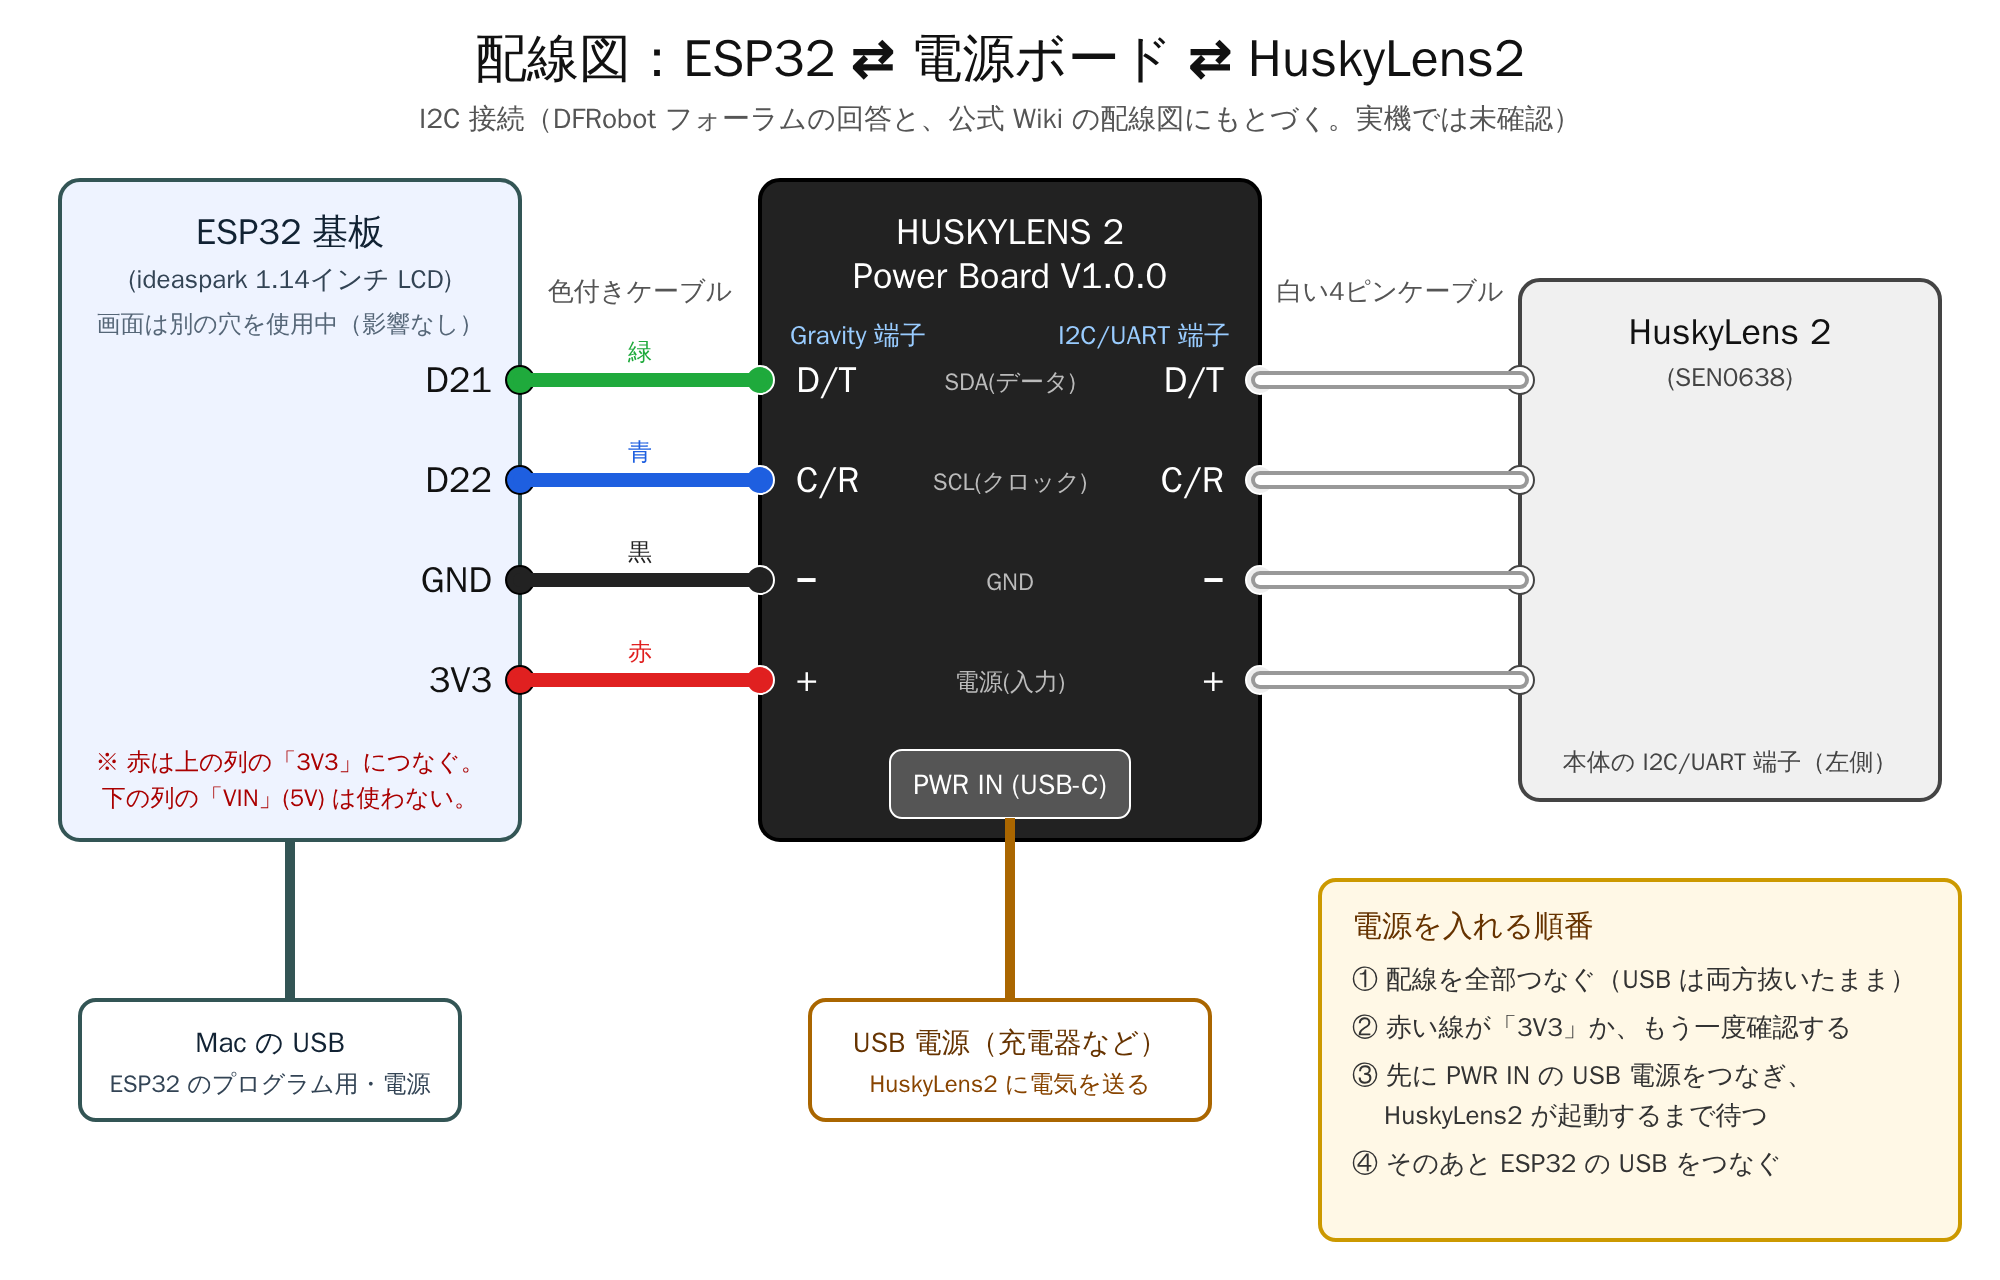
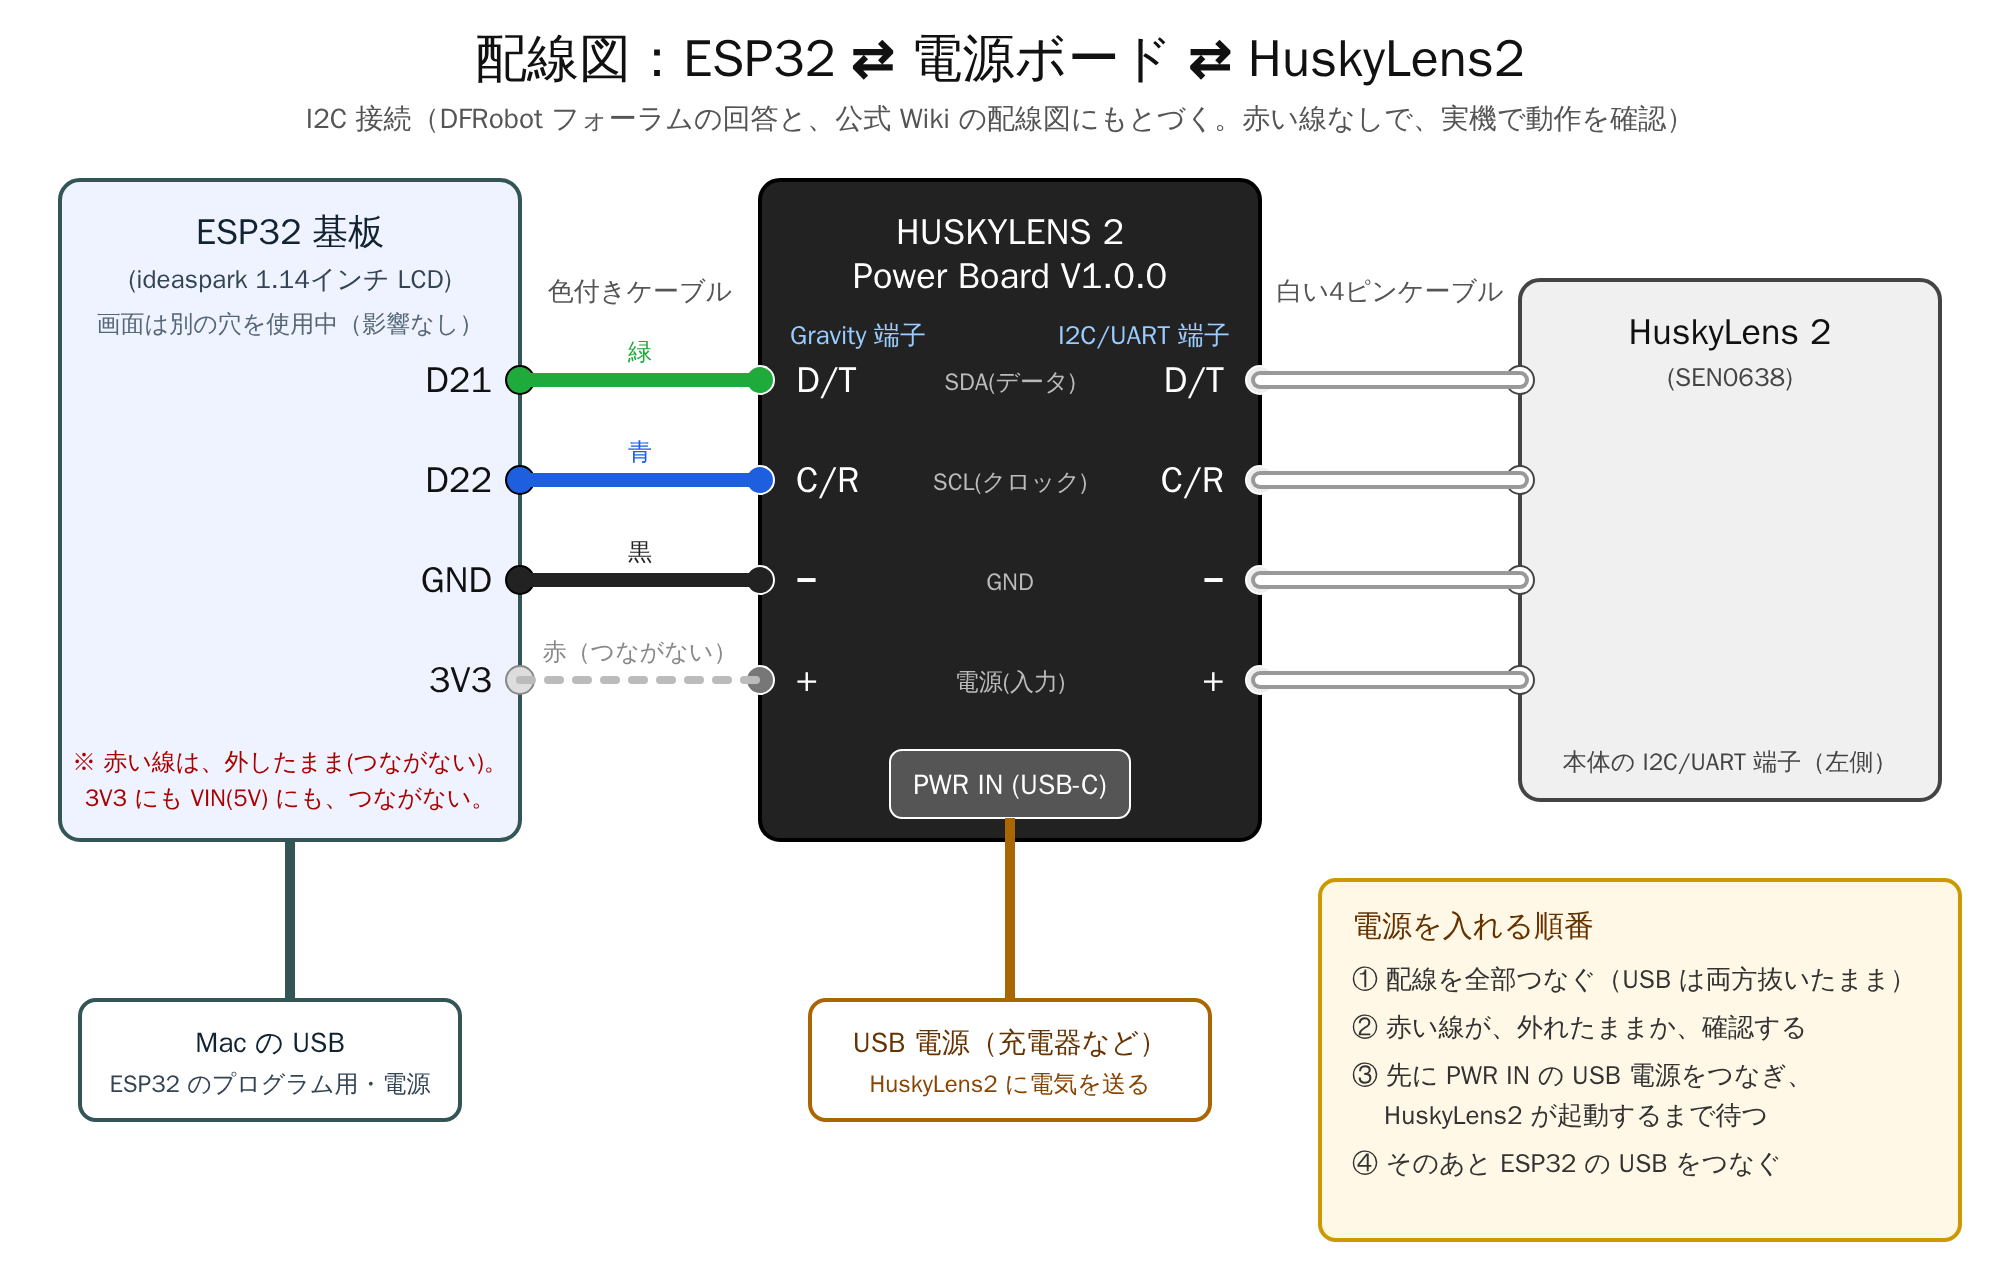
赤い線(+)は外したまま動く、という実機の状態を、配線図・README・HANDOFFに反映
Claude-Session: https://claude.ai/code/session_012mYKMKpnkA774TEi34z85Q

diff --git a/HuskyLens2/README.md b/HuskyLens2/README.md
@@ -75,7 +75,7 @@ MicroPython に書き直した小さな部品です。
 - 切り分け用：`hl_knock_test.py`（8秒待つ）と `hl_knock_nowait.py`（待たない）。先に顔認識の画面にしておいて、実行する。
 - それでも直らなければ、HuskyLens2 の電源を、ESP32 とは別に、入り切りできるようにする、などの回避策が必要です。
 
-## 配線（実機で動いた形）
+## 配線（実機で動いた形。赤い線は、外したまま）
 
 詳しくは `docs/wiring.png`（`docs/wiring.svg`）を見てください。
 
@@ -84,12 +84,13 @@ MicroPython に書き直した小さな部品です。
 | 緑 | D/T（SDA） | D21 |
 | 青 | C/R（SCL） | D22 |
 | 黒 | −（GND） | GND |
-| 赤 | +（入力） | 3V3 |
+| 赤 | +（入力） | **つながない（外したまま）** |
 
+- 赤い線なしで、実機で動きました（利用者の報告）。経緯：EN での症状の切り分けで、赤を外しても、症状は変わらなかったので、外したまま使っています。
 - HuskyLens2 は、白い4ピンケーブルで、電源ボードの「I2C/UART」端子につなぐ。
-- 電源ボードの「PWR IN」に、USB-C で電源を入れる。
+- 電源ボードの「PWR IN」に、USB-C で電源を入れる（HuskyLens2 の電気は、ここだけから取る）。
 - 電源を入れる順番：先に電源ボードの USB 電源 → HuskyLens2 の起動を待つ → そのあと ESP32 の USB。
-- 根拠：DFRobot フォーラムの回答（Gravity の「+」は、電源ボードにとっての入力で、一方向。D/T = SDA、C/R = SCL）。
+- 根拠：DFRobot フォーラムの回答（I2C では D/T = SDA、C/R = SCL）。
   https://www.dfrobot.com/forum/topic/403800
 
 ## 分かっていること
@@ -114,7 +115,7 @@ MicroPython に書き直した小さな部品です。
 ## まだ確認していないこと
 
 - 信号線（D/T、C/R）が、何ボルトでつり上げられているか。公式の回答では、直接は触れられていません。実機は、動いています。
-- ESP32 の 3V3 と、PWR IN の電源を、両方つないだ状態での、長時間の動作（熱、電源の不足）。
+- 赤い線なしでの、信号線の電圧の基準。長時間の動作（熱、電源の不足）。
 
 ## 試験(パソコンで)
 

diff --git a/HANDOFF.md b/HANDOFF.md
@@ -21,9 +21,9 @@
 - 書き込み: `erase_flash` → `write_flash -z 0x1000 <bin>`
 - 注意: mpremote の `run` は、基板で動いている main.py を止める。プログラムを入れ替えたあとは EN ボタンで再起動。
 
-## 配線(実機で動いた)
+## 配線(実機で動いた。**赤い線は、外したまま**)
 - HuskyLens2 ⇄(白い4ピン)⇄ 電源ボード I2C/UART 端子
-- 電源ボード PWR IN ← USB-C 電源
+- 電源ボード PWR IN ← USB-C 電源(HuskyLens2 の電気は、ここだけから取る)
 - 電源ボード Gravity 端子 ⇄(色付き)⇄ ESP32:
 
   | 色 | 電源ボード | ESP32 |
@@ -31,13 +31,16 @@
   | 緑 | D/T (SDA) | D21 |
   | 青 | C/R (SCL) | D22 |
   | 黒 | − (GND) | GND |
-  | 赤 | + (入力) | 3V3 |
+  | 赤 | + (入力) | **つながない(外したまま)** |
 
-  赤は上の列の 3V3。下の列の VIN(5V)ではない。
+- 赤い線(+)は、3V3 にも VIN(5V)にも、つながない。**赤なしで、顔認識、写真、自動登録、EN 再起動後の復帰まで、実機で動いた**(利用者の報告)。
+  - 経緯: DFRobot フォーラムの回答で、「+」は電源ボードの入力(一方向)、「ESP32 の 3.3V をつないで試せる」と言われた。
+    しかし、EN での症状の切り分けで、赤を外しても、症状は変わらなかった。以後、外したまま使っている。
+  - 注意: 赤なしで、信号線(SDA/SCL)の電圧の基準が、どうなっているかは、未確認(動いてはいる)。
 - 電源を入れる順番: 先に電源ボードの USB 電源 → HuskyLens2 の起動を待つ → そのあと ESP32 の USB。
 - 根拠: DFRobot フォーラム https://www.dfrobot.com/forum/topic/403800
-  (Gravity の + は電源ボードの入力で一方向。I2C では D/T=SDA, C/R=SCL)
-- 切り分けの試験で、赤い線(+)を外しても、EN での症状は変わらなかった。**今の赤い線の接続状態は、未確認(要確認)。**
+  (I2C では D/T=SDA, C/R=SCL)
+- 配線図: `HuskyLens2/docs/wiring.png`(赤は点線の灰色で、つながない、と表示)
 
 ## 作ったもの(ブランチ `claude/clever-galileo-xyqe6f`)
 - `Esp32TimeSync/`
